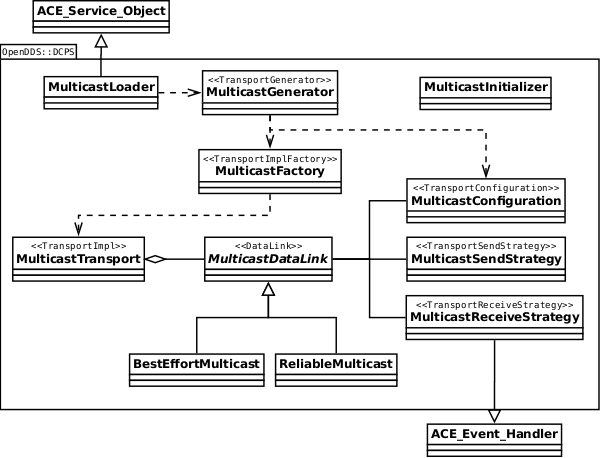
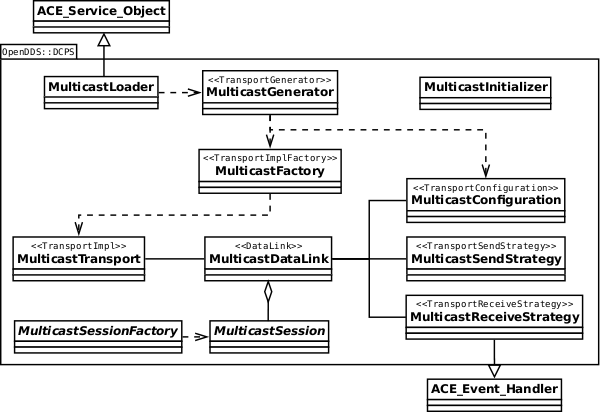
Tue Feb  2 18:41:21 UTC 2010  Steven Stallion  <stallions@ociweb.com>
git-svn-id: svn://svn.dre.vanderbilt.edu/DOC/DDS@2962 1d620576-631a-0410-9fb9-985d35bca4c5

Changed region(s): [[0.0, 0.0, 1.0, 1.0], [0.6, 0.2615, 0.63, 0.3196]]

diff --git a/trunk/docs/html/multicast/multicast.html b/trunk/docs/html/multicast/multicast.html
@@ -618,8 +618,10 @@ An FEC mechanism should be introduced to reduce repair requests and to provide a
 
 {{{MULTICAST_SYNACK}}} responses should be predicated on association status to prevent potential denial of service attacks (not currently supported by the ETF).</pre>
 </div>
-<div title="Known Issues" modifier="StevenStallion" created="200912012032" modified="200912141627" changecount="46">
-<pre>{{{TRANSPORT_PRIORITY}}} is not directly supported. This is partially due to routing restrictions placed on default group addresses as the selection heuristic assigns from the link-local range. Setting the TOS would provide little to no benefit for non-default group addresses at the cost of additional resources and complexity managing n-ary associations by priority key.
+<div title="Known Issues" modifier="StevenStallion" created="200912012032" modified="201002021839" changecount="53">
+<pre>The current implementation supports //at most// one DDS domain per multicast group.
+
+{{{TRANSPORT_PRIORITY}}} is not directly supported. This is partially due to routing restrictions placed on default group addresses as the selection heuristic assigns from the link-local range. Setting the TOS would provide little to no benefit for non-default group addresses at the cost of additional resources and complexity managing n-ary associations by priority key.
 
 Reliability must be configured via the {{{reliable}}} transport configuration option. The ETF currently multiplexes best-effort and reliable samples across the same {{{DataLink}}} which effectively disables autonegotiation of reliability between peers at the transport level.
 
@@ -642,17 +644,17 @@ The current implementation relies on the transport reactor being derived from {{
 
 OpenDDS is supported by [[Object Computing, Inc.|http://www.ociweb.com/]]</pre>
 </div>
-<div title="Overview" modifier="StevenStallion" created="200912011932" modified="200912090038" changecount="106">
+<div title="Overview" modifier="StevenStallion" created="200912011932" modified="201002021835" changecount="110">
 <pre>Starting with the OpenDDS 2.1 release, a new multicast transport is available which replaces the {{{SimpleMcast}}} and {{{ReliableMulticast}}} transports. The source for the {{{multicast}}} transport is available under the general OpenDDS license and may be found under: {{{$DDS_ROOT/dds/DCPS/transport/multicast/}}}.
 
 What follows is a detailed description of the design, configuration, known issues, and potential enhancements for the {{{multicast}}} transport:
 
-Unlike other transports, multicast reservations are formed between participants rather than individual publications and subscriptions. This allows any number of associations  belonging to the same pair of participants to re-use an existing {{{DataLink}}}, thereby reducing the amount of resources needed in multicast intensive environments. Another departure is unified support for best-effort and reliable delivery based on transport configuration. Delivery-specific behavior is abstracted by each concrete {{{MulticastDataLink}}} implementation, which allows for the same set of transport strategies to be used regardless of delivery mode.
+Unlike other transports, a single {{{DataLink}}} is maintained for each {{{TransportImpl}}} instance. Multicast reservations are also formed between participants rather than individual publications and subscriptions via a transport-specific session layer. This allows any number of associations  belonging to the same pair of participants to re-use an existing {{{MulticastSession}}}, thereby reducing the amount of resources needed in multicast intensive environments. Another departure is unified support for best-effort and reliable delivery based on transport configuration. Delivery-specific behavior is abstracted by each concrete {{{MulticastSession}}} implementation, which allows for the same set of transport strategies to be used regardless of delivery mode.
 
 Two delivery modes are supported: best-effort and reliable.
-* Best-effort delivery imposes the least amount of overhead as data is exchanged between peers, however it does not provide any guarantee of delivery. Data may be lost due to unresponsive or unreachable peers or received in duplicate (see: {{{OpenDDS::DCPS::BestEffortMulticast}}}).
-* Reliable delivery provides for guaranteed delivery of data to associated peers with no duplication at the cost of additional processing and bandwidth (see: {{{OpenDDS::DCPS::ReliableMulticast}}}).
-When a new reservation is made, a remote and local peer identifier is assigned based on the participant ID of the associated entities. These values are used to uniquely identify each side of a given {{{DataLink}}} within the multicast group. The ETF will always designate the publishing side of the association as being active. An active peer will have many passive peers it is associated with and vice-versa. Multicast datagrams will always assign the peer ID to the source field of the transport header (see: {{{OpenDDS::DCPS::TransportHeader}}}).
+* Best-effort delivery imposes the least amount of overhead as data is exchanged between peers, however it does not provide any guarantee of delivery. Data may be lost due to unresponsive or unreachable peers or received in duplicate (see: {{{OpenDDS::DCPS::BestEffortSession}}}).
+* Reliable delivery provides for guaranteed delivery of data to associated peers with no duplication at the cost of additional processing and bandwidth (see: {{{OpenDDS::DCPS::ReliableSession}}}).
+When a new reservation is made, a remote and local peer identifier is assigned based on the participant ID of the associated entities. These values are used to uniquely identify each side of a given {{{MulticastSession}}} within the multicast group. The ETF will always designate the publishing side of the association as being active. Multicast datagrams will always assign the local peer ID to the source field of the transport header (see: {{{OpenDDS::DCPS::TransportHeader}}}).
 
 The {{{multicast}}} transport may be configured and attached similarly to other transport implementations:
 {{{
@@ -696,29 +698,29 @@ project : dcpsexe_with_multicast {
 &lt;/div&gt;
 &lt;!--}}}--&gt;</pre>
 </div>
-<div title="Reliability" modifier="StevenStallion" created="200912011934" modified="200912112002" changecount="96">
+<div title="Reliability" modifier="StevenStallion" created="200912011934" modified="201002021840" changecount="101">
 <pre>Reliable delivery is achieved through two primary mechanisms:
 * 2-way peer handshaking (SYN/SYNACK)
 * Negative acknowledgment of missing data (NAK/NAKACK)
-For the purpose of examining the interactions between reliable peers, it helps to narrow the view of the multicast group to two specific peers: active and passive. The active peer is the publishing side of the {{{DataLink}}}. The passive peer will be the remote peer associated with the link when it was created. It is important to remember that control data will be exchanged among all peers within the multicast group, however disinterested peers will discard payloads which are not addressed to them directly.
+For the purpose of examining the interactions between reliable peers, it helps to narrow the view of the multicast group to two specific peers: active and passive. The active peer is the publishing side of the {{{MulticastSession}}}. The passive peer will be the remote peer associated with the session when it was created. It is important to remember that control data will be exchanged among all peers within the multicast group, however disinterested peers will discard payloads which are not addressed to them directly.
 
 DCPS control samples were chosen in lieu of more traditional ~PDUs for the exchange of control data between peers; this allowed the transport to leverage existing functionality at the cost of a slightly increased payload size.
 !!SYN/SYNACK
 [&lt;img[images/handshake.png]]
-The active peer initiates a handshake by sending a {{{MULTICAST_SYN}}} control sample to the passive peer at periodic intervals bounded by a timeout to ensure delivery.
+The active peer initiates a handshake by sending a {{{MULTICAST_SYN}}} control sample to the passive peer at periodic intervals bounded by a timeout to ensure delivery. An exponential backoff is observed based on the number of retries.
 
 Upon receiving the {{{MULTICAST_SYN}}} control sample, the passive peer records the current transport sequence value for the active peer and responds with a {{{MULTICAST_SYNACK}}} control sample. This sequence number establishes a value from which reception gaps may be identified in the future.
 
 If the active peer receives a {{{MULTICAST_SYNACK}}} control sample, it will then notify the ETF that the association is complete, which will in turn trigger a communication status change in the DCPS layer. In the event a {{{MULTICAST_SYNACK}}} control sample is not received, an error will be logged.
 !!NAK/NAKACK
 [&gt;img[images/repair.png]]
-As each datagram is delivered to the {{{DataLink}}}, the transport sequence value is scored against a special container which identifies reception gaps (see: {{{OpenDDS::DCPS::DisjointSequence}}}). Periodically, a watchdog executes and will age off any outstanding repair requests which have not been fulfilled by resetting the sequence low-water mark and logging an error. Once outstanding requests have been purged, the watchdog will then check for reception gaps.  In the event a new (or existing) reception gap is identified, the {{{DataLink}}} records the current interval and the high-water mark for the transport sequence. It will then issue {{{MULTICAST_NAK}}} control samples to active peers from which it is missing data.
+As each datagram is delivered to the {{{ReliableSession}}}, the transport sequence value is scored against a special container which identifies reception gaps (see: {{{OpenDDS::DCPS::DisjointSequence}}}). Periodically, a watchdog executes and will age off any outstanding repair requests which have not been fulfilled by resetting the sequence low-water mark and logging an error. Once outstanding requests have been purged, the watchdog will then check for reception gaps.  In the event a new (or existing) reception gap is identified, the {{{ReliableSession}}} records the current interval and the high-water mark for the transport sequence. It will then issue {{{MULTICAST_NAK}}} control samples to active peers from which it is missing data. This interval is randomized to prevent potential collisions among similarly associated peers. Passive peers perform NAK suppression based on all repair requests destined for the same active peer. If previous requests have been sent, a passive peer will temporarily elide previously requested ranges for the current interval.
 
 If the active peer receives a {{{MULTICAST_NAK}}} control sample it will examine its send buffer for the missing datagram. If the datagram is no longer available, it sends a {{{MULTICAST_NAKACK}}} control sample to the entire multicast group to suppress further repair requests. If the datagram is still available, it resends the missing data to the entire multicast group.
 
 If the passive peer receives a {{{MULTICAST_NAKACK}}} control sample, it will behave just as if the repair request has aged off, suppressing further repair requests and logging an error.
 
-Passive peers perform NAK suppression based on all repair requests destined for the same active peer. If previous requests have been sent, a passive peer will temporarily elide previously requested ranges for the current interval.</pre>
+In the event the transport detects a loss of reliability, the ETF will be notified and affected associations will be terminated and re-established.</pre>
 </div>
 <div title="SideBarOptions" modifier="OpenDDS" created="200911302023" server.type="file" server.host="file:///export/OCI/DDS/docs/html/template/index.html" server.page.revision="200911302023">
 <pre>&lt;&lt;search&gt;&gt;&lt;&lt;closeAll&gt;&gt;&lt;&lt;permaview&gt;&gt;&lt;&lt;newTiddler&gt;&gt;&lt;&lt;saveChanges&gt;&gt;&lt;&lt;slider chkSliderOptionsPanel OptionsPanel &quot;options »&quot; &quot;Change TiddlyWiki advanced options&quot;&gt;&gt;</pre>
